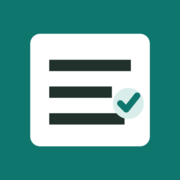
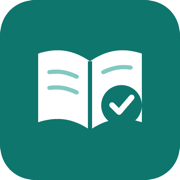
Update Uyum Akademisi branding and add inline reading notes

diff --git a/app/AnnotatedReading.tsx b/app/AnnotatedReading.tsx
@@ -1,0 +1,102 @@
+"use client";
+
+import { Fragment, useEffect, useRef, useState } from "react";
+import { accountStorageKey } from "./account-storage";
+
+type Anchor = { block: string; start: number; end: number; quote: string };
+type Note = { id: string; anchors: Anchor[]; comment: string };
+
+export default function AnnotatedReading({ lessonId, sections }: { lessonId: string; sections: { title: string; body: string }[] }) {
+  const root = useRef<HTMLDivElement>(null);
+  const [notes, setNotes] = useState<Note[]>([]);
+  const [draft, setDraft] = useState<Note | null>(null);
+  const [error, setError] = useState("");
+  const storageKey = accountStorageKey(`masak-reading-notes:${lessonId}`);
+
+  useEffect(() => {
+    try {
+      const saved: unknown = JSON.parse(localStorage.getItem(storageKey) ?? "[]");
+      if (Array.isArray(saved)) setNotes(saved.filter((n): n is Note => typeof n?.id === "string" && typeof n.comment === "string" && Array.isArray(n.anchors) && n.anchors.every((a: Anchor) => typeof a.block === "string" && typeof a.quote === "string" && Number.isInteger(a.start) && Number.isInteger(a.end) && a.start >= 0 && a.end > a.start)).slice(0, 500));
+    } catch { setError("Kayıtlı notlar okunamadı."); }
+  }, [storageKey]);
+
+  useEffect(() => {
+    if (!draft) return;
+    const close = (event: KeyboardEvent) => {
+      if (event.key === "Escape") { setDraft(null); window.getSelection()?.removeAllRanges(); }
+    };
+    document.addEventListener("keydown", close);
+    return () => document.removeEventListener("keydown", close);
+  }, [draft]);
+
+  function captureSelection() {
+    if (root.current?.querySelector(".reading-note-panel")) return;
+    const selection = window.getSelection();
+    if (!selection || selection.isCollapsed || !selection.rangeCount) return;
+    const range = selection.getRangeAt(0);
+    if (!root.current?.contains(range.startContainer) || !root.current.contains(range.endContainer)) return;
+    const anchors: Anchor[] = [];
+    root.current.querySelectorAll<HTMLParagraphElement>("p[data-reading-block]").forEach((p) => {
+      if (!range.intersectsNode(p)) return;
+      const part = document.createRange();
+      part.selectNodeContents(p);
+      if (p.contains(range.startContainer)) part.setStart(range.startContainer, range.startOffset);
+      if (p.contains(range.endContainer)) part.setEnd(range.endContainer, range.endOffset);
+      const before = document.createRange();
+      before.selectNodeContents(p);
+      before.setEnd(part.startContainer, part.startOffset);
+      const quote = part.toString();
+      if (quote.trim()) anchors.push({ block: p.dataset.readingBlock!, start: before.toString().length, end: before.toString().length + quote.length, quote });
+    });
+    if (anchors.length) { setError(""); setDraft({ id: crypto.randomUUID(), anchors, comment: "" }); }
+  }
+
+  useEffect(() => {
+    let timer: ReturnType<typeof setTimeout>;
+    const onSelection = () => { clearTimeout(timer); timer = setTimeout(captureSelection, 700); };
+    document.addEventListener("selectionchange", onSelection);
+    return () => { clearTimeout(timer); document.removeEventListener("selectionchange", onSelection); };
+  }, []);
+
+  function persist(next: Note[]) {
+    try {
+      localStorage.setItem(storageKey, JSON.stringify(next));
+      setNotes(next); setDraft(null); setError("");
+      window.getSelection()?.removeAllRanges();
+    } catch { setError("Not kaydedilemedi. Tarayıcı depolama izinlerini kontrol et."); }
+  }
+
+  function paragraph(text: string, block: string) {
+    const matches = notes.flatMap((note) => note.anchors.filter((a) => a.block === block && text.slice(a.start, a.end) === a.quote).map((anchor) => ({ note, anchor })));
+    const edges = [...new Set([0, text.length, ...matches.flatMap(({ anchor }) => [anchor.start, anchor.end])])].sort((a, b) => a - b);
+    return edges.slice(0, -1).map((start, i) => {
+      const end = edges[i + 1];
+      const match = matches.find(({ anchor }) => anchor.start <= start && anchor.end >= end);
+      return match ? <mark key={start} role="button" tabIndex={0} title={match.note.comment || "Vurgu notunu aç"} aria-label={`Vurguyu aç: ${text.slice(start, end)}`} onClick={() => setDraft(match.note)} onKeyDown={(e) => { if (e.key === "Enter" || e.key === " ") { e.preventDefault(); setDraft(match.note); } }}>{text.slice(start, end)}</mark> : <span key={start}>{text.slice(start, end)}</span>;
+    });
+  }
+
+  return <>
+    <div ref={root} className="academic-chapters" onPointerUp={captureSelection} onKeyUp={captureSelection}>
+      {sections.map((section, index) => <section id={`academic-${lessonId}-${index}`} tabIndex={-1} className="academic-chapter" key={section.title}>
+        <h3>{index + 1}. {section.title}</h3>
+        {section.body.split("\n\n").map((text, p) => <Fragment key={p}>
+          <p data-reading-block={`${index}:${p}`}>{paragraph(text, `${index}:${p}`)}</p>
+          {draft?.anchors[draft.anchors.length - 1]?.block === `${index}:${p}` && <section className="reading-note-panel" aria-label="Vurgu ve not">
+            <form onSubmit={(e) => { e.preventDefault(); persist([...notes.filter((n) => n.id !== draft.id), draft]); }}>
+              <label htmlFor="reading-comment">Notun <span>(isteğe bağlı)</span></label>
+              <textarea id="reading-comment" rows={2} maxLength={4000} value={draft.comment} onChange={(e) => setDraft({ ...draft, comment: e.target.value })} />
+              {error && <p role="alert">{error}</p>}
+              <div className="reading-note-actions">
+                <button className="button primary" type="submit">{notes.some((n) => n.id === draft.id) ? "Notu kaydet" : "Vurgula ve kaydet"}</button>
+                {notes.some((n) => n.id === draft.id) && <button className="button ghost" type="button" onClick={() => persist(notes.filter((n) => n.id !== draft.id))}>Vurguyu sil</button>}
+                <button className="button ghost" type="button" onClick={() => { setDraft(null); window.getSelection()?.removeAllRanges(); }}>Vazgeç</button>
+              </div>
+            </form>
+          </section>}
+        </Fragment>)}
+      </section>)}
+    </div>
+    {error && <p role="alert">{error}</p>}
+  </>;
+}

diff --git a/app/MasakPrepApp.tsx b/app/MasakPrepApp.tsx
@@ -15,6 +15,7 @@ import {
   type Question,
 } from "./content";
 import ReadingNav from "./ReadingNav";
+import AnnotatedReading from "./AnnotatedReading";
 import StorageNotice from "./StorageNotice";
 import SchemaLibrary from "./SchemaLibrary";
 import { accountStorageKey } from "./account-storage";
@@ -239,10 +240,10 @@ export default function MasakPrepApp() {
   const [resetMessage, setResetMessage] = useState("");
 
   function resetProgress() {
-    if (!window.confirm("Tamamlanan dersler, soru sonuçları, deneme geçmişi ve okuma konumları silinecek. Bu işlem geri alınamaz. İlerlemeyi sıfırlamak istiyor musun?")) return;
+    if (!window.confirm("Tamamlanan dersler, soru sonuçları, deneme geçmişi, okuma konumları ve kişisel notlar silinecek. Bu işlem geri alınamaz. İlerlemeyi sıfırlamak istiyor musun?")) return;
     try {
       const keys = ["masak-prep-progress-v1", "masak-prep-progress-v2", "masak-prep-srs-v1", "masak-prep-recall-v1", "masak-prep-tour-cursor-v1", "masak-academic-recall-v1"];
-      const readingKeys = lessons.map((lesson) => `masak-reading-position:${lesson.id}`);
+      const readingKeys = lessons.flatMap((lesson) => [`masak-reading-position:${lesson.id}`, `masak-reading-notes:${lesson.id}`]);
       [...keys, ...readingKeys].forEach((key) => window.localStorage.removeItem(accountStorageKey(key)));
       window.localStorage.setItem(accountStorageKey("masak-prep-progress-v2"), JSON.stringify(defaultProgress));
       setProgress(defaultProgress);
@@ -652,7 +653,7 @@ export default function MasakPrepApp() {
       <StorageNotice />
       <header className="topnav">
         <div className="topnav-brand">
-          <div className="topnav-mark" aria-hidden="true">M</div>
+          <img className="topnav-mark" src="app-icon.svg" alt="" width={40} height={40} />
           <div>
             <p className="topnav-title">Uyum Akademisi</p>
             <p className="topnav-subtitle">Uyum görevlisi yetkilendirme sınavı</p>
@@ -747,10 +748,7 @@ export default function MasakPrepApp() {
                   {studyContent.coreNarrative.split("\n\n").map((paragraph, index) => <p key={index}>{paragraph}</p>)}
                 </section>
                 <ReadingNav key={studyLesson.id} lessonId={studyLesson.id} titles={studyContent.deepDiveSections.map((section) => section.title)} />
-                <div className="academic-chapters">{studyContent.deepDiveSections.map((section, index) => <section id={`academic-${studyLesson.id}-${index}`} tabIndex={-1} className="academic-chapter" key={section.title}>
-                  <h3>{index + 1}. {section.title}</h3>
-                  {section.body.split("\n\n").map((paragraph, paragraphIndex) => <p key={paragraphIndex}>{paragraph}</p>)}
-                </section>)}</div>
+                <AnnotatedReading key={studyLesson.id} lessonId={studyLesson.id} sections={studyContent.deepDiveSections} />
                 <details className="academic-exam-notes exam-visual"><summary>Sınav notları ve kritik ayrımlar</summary>
                 <section className="study-mustknow exam-checklist">
                   <h3>Mutlaka Bil</h3>

diff --git a/app/globals.css b/app/globals.css
@@ -1,5 +1,15 @@
 @import "tailwindcss";
 
+.academic-chapters mark { background:#ffe49b; color:#242016; border-bottom:2px solid #b77910; cursor:pointer; border-radius:2px; }
+.academic-chapters mark:focus-visible { outline:2px solid var(--accent); outline-offset:3px; }
+.reading-note-panel { width:min(100%,440px); margin:12px 0 24px auto; padding:12px; border-left:3px solid var(--accent); background:var(--panel-soft); color:var(--foreground); border-radius:4px; }
+.reading-note-panel label { display:block; margin-bottom:6px; font-size:.8rem; font-weight:650; }
+.reading-note-panel label span { color:var(--muted); font-weight:400; }
+.reading-note-panel textarea { display:block; width:100%; resize:vertical; min-height:64px; padding:8px; border:1px solid var(--line); border-radius:4px; background:var(--panel); color:var(--foreground); font-size:.85rem; }
+.reading-note-actions { display:flex; flex-wrap:wrap; gap:6px; margin-top:8px; }
+.reading-note-actions .button { min-height:36px; padding:6px 10px; font-size:.75rem; }
+@media(max-width:600px) { .reading-note-actions .button { min-height:44px; } }
+
 .schema-controls { display:flex; align-items:center; gap:12px; flex-wrap:wrap; padding-block:16px; border-bottom:1px solid var(--line); }
 .schema-infographic { margin:24px 0; }
 .schema-infographic img { display:block; width:100%; height:auto; border-radius:6px; }

diff --git a/app/layout.tsx b/app/layout.tsx
@@ -13,13 +13,13 @@ const geistMono = Geist_Mono({
 });
 
 export const metadata: Metadata = {
-  title: "MASAK Uyum Akademisi",
+  title: "Uyum Akademisi",
   description:
     "MASAK uyum görevlisi yetkilendirme sınavı için ders, soru çözüm, hafıza kartları ve deneme simülasyonu.",
   manifest: "/manifest.webmanifest",
   appleWebApp: {
     capable: true,
-    title: "MASAK Uyum",
+    title: "Uyum Akademisi",
     statusBarStyle: "default",
   },
   icons: {
@@ -31,14 +31,14 @@ export const metadata: Metadata = {
     apple: "/apple-touch-icon.png",
   },
   openGraph: {
-    title: "MASAK Uyum Akademisi",
+    title: "Uyum Akademisi",
     description:
       "Ders anlatımı, hızlı tekrar kartları ve açıklamalı soru çözümüyle MASAK uyum sınavı çalışma platformu.",
     type: "website",
   },
   twitter: {
     card: "summary",
-    title: "MASAK Uyum Akademisi",
+    title: "Uyum Akademisi",
     description:
       "MASAK uyum görevlisi yetkilendirme sınavı için PWA çalışma platformu.",
   },

diff --git a/public/offline.html b/public/offline.html
@@ -3,7 +3,7 @@
   <head>
     <meta charset="utf-8" />
     <meta name="viewport" content="width=device-width, initial-scale=1" />
-    <title>MASAK Uyum Akademisi - Offline</title>
+    <title>Uyum Akademisi - Çevrimdışı</title>
     <style>
       body {
         margin: 0;
@@ -35,7 +35,7 @@
   <body>
     <main>
       <h1>Bağlantı yok</h1>
-      <p>MASAK Uyum Akademisi ana ekranı çevrimdışı kullanım için önbelleğe alınır. Sayfayı daha önce açtıysanız tekrar deneyin.</p>
+      <p>Uyum Akademisi ana ekranı çevrimdışı kullanım için önbelleğe alınır. Sayfayı daha önce açtıysanız tekrar deneyin.</p>
     </main>
   </body>
 </html>

diff --git a/github-pages/index.html b/github-pages/index.html
@@ -11,7 +11,7 @@
     <link rel="manifest" href="manifest.webmanifest" />
     <link rel="icon" href="favicon.svg" type="image/svg+xml" />
     <link rel="apple-touch-icon" href="apple-touch-icon.png" />
-    <title>MASAK Uyum Akademisi</title>
+    <title>Uyum Akademisi</title>
   </head>
   <body>
     <div id="root"></div>

diff --git a/public/sw.js b/public/sw.js
@@ -1,4 +1,4 @@
-const CACHE_NAME = "masak-prep-v7";
+const CACHE_NAME = "masak-prep-v8";
 const CORE_ASSETS = ["./", "manifest.webmanifest", "app-icon.svg", "icon-192.png", "icon-512.png", "apple-touch-icon.png", "favicon.svg", "offline.html"];
 
 function fromScope(path) {
